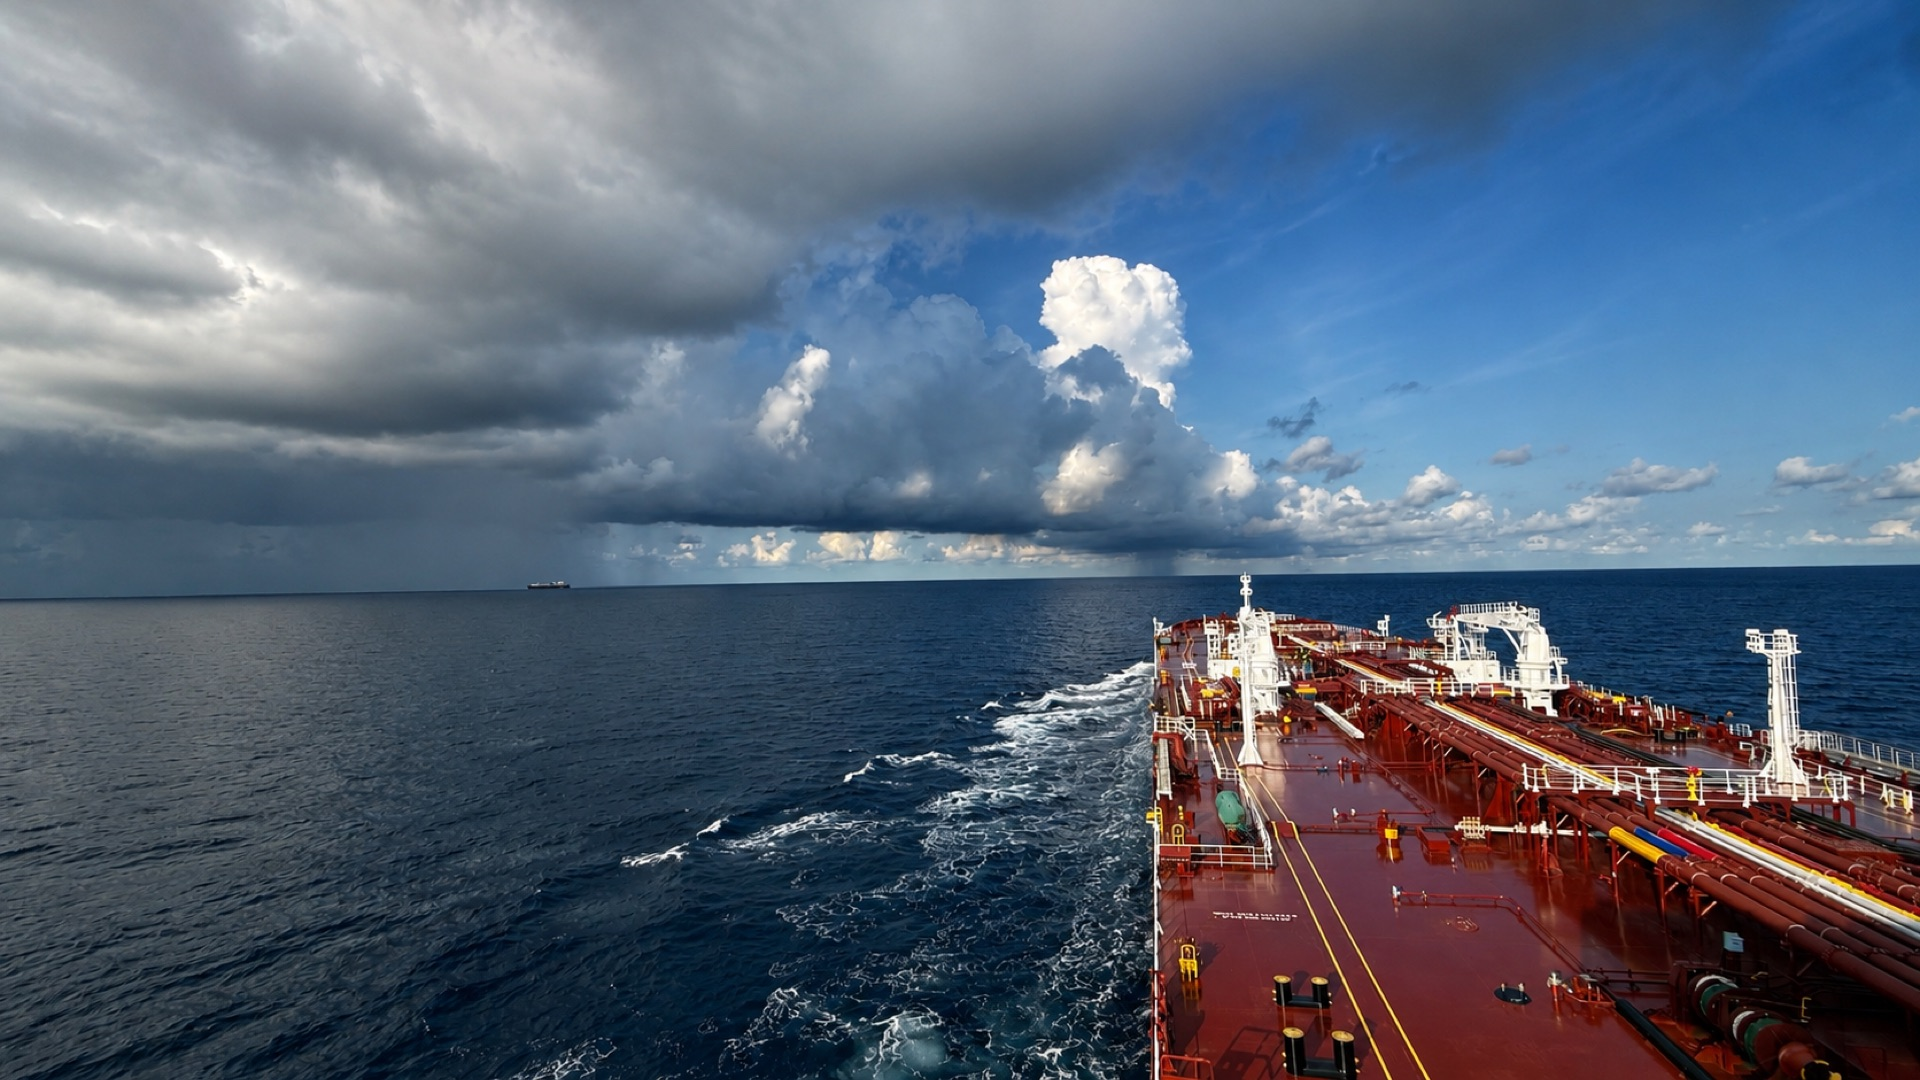
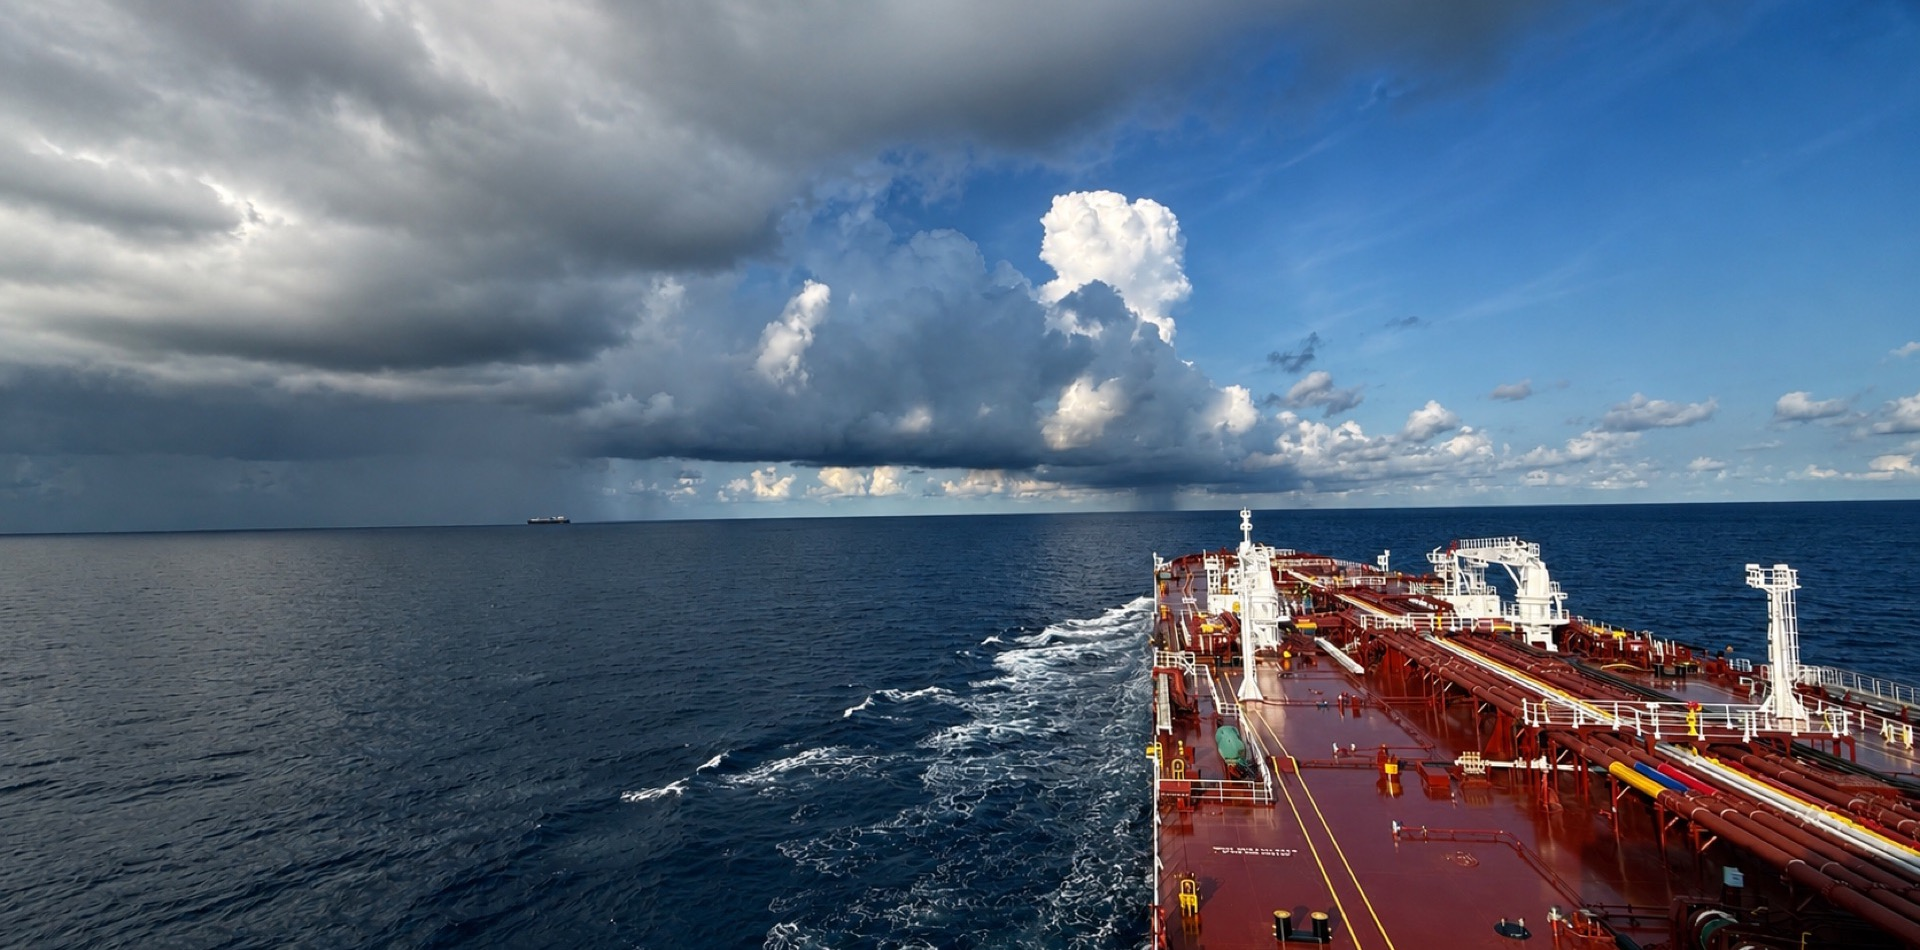
Optimize images and remove watermarks

diff --git a/index.html b/index.html
@@ -1547,17 +1547,20 @@
       background: rgba(3, 5, 8, 0.96);
       backdrop-filter: blur(24px);
       -webkit-backdrop-filter: blur(24px);
-      display: none;
+      display: flex;
       align-items: center;
       justify-content: center;
       padding: 40px;
       opacity: 0;
-      transition: opacity 0.3s ease;
+      visibility: hidden;
+      pointer-events: none;
+      transition: opacity 0.3s ease, visibility 0.3s ease;
     }
 
     .lightbox-curtain.active {
-      display: flex;
       opacity: 1;
+      visibility: visible;
+      pointer-events: auto;
     }
 
     .lightbox-stage {
@@ -1848,7 +1851,7 @@
           <!-- Hero Portrait in Architectural Frame (Preserved exactly in its own card) -->
           <div class="hero-portrait-stage reveal delay-2">
             <div class="portrait-frame">
-              <img src="photos/91bd6945-d18d-42fb-bad8-4787d4221a9a.JPG" alt="Angad Sharma — Chief Officer & Photographer" class="portrait-img" loading="eager">
+              <img src="photos/optimized/portrait.jpg" alt="Angad Sharma — Chief Officer & Photographer" class="portrait-img" loading="eager">
               <div class="portrait-meta">
                 <span class="portrait-meta-name">Angad Sharma</span>
                 <span class="portrait-meta-sub">First Mate (FG)</span>
@@ -1941,10 +1944,10 @@
         <!-- Featured Exhibition: INTERTANKO 2023 1st & 2nd Place Winners -->
         <div class="exhibition-duo">
           <!-- 1st Place Overall: Beam of Sunrays -->
-          <div class="exhibition-frame reveal delay-1" onclick="openGalleryLightbox('photos/IMG_3292.JPG', 'Beam of Sunrays', '1st Place (Overall Winner) — INTERTANKO Annual Tanker Event 2023 (Sponsored by Valles Steamship)')">
+          <div class="exhibition-frame reveal delay-1" onclick="openGalleryLightbox('photos/optimized/gallery/beam-of-sunrays.jpg', 'Beam of Sunrays', '1st Place (Overall Winner) — INTERTANKO Annual Tanker Event 2023 (Sponsored by Valles Steamship)')">
             <div class="exhibition-img-box">
               <div class="plaque-badge plaque-gold">🥇 1st Place Overall Winner</div>
-              <img src="photos/IMG_3292.JPG" alt="Beam of Sunrays — 1st Place INTERTANKO 2023" loading="lazy">
+              <img src="photos/optimized/gallery/beam-of-sunrays.jpg" alt="Beam of Sunrays — 1st Place INTERTANKO 2023" loading="lazy">
             </div>
             <div class="exhibition-caption">
               <h3 class="exhibition-title">Beam of Sunrays</h3>
@@ -1956,10 +1959,10 @@
           </div>
 
           <!-- 2nd Place: Sunrise -->
-          <div class="exhibition-frame reveal delay-2" onclick="openGalleryLightbox('photos/IMG_2713.JPG', 'Sunrise', '2nd Place Winner — INTERTANKO Annual Tanker Event 2023 (Chief Officer aboard MT Atherina, Suntech Ship Management)')">
+          <div class="exhibition-frame reveal delay-2" onclick="openGalleryLightbox('photos/optimized/gallery/sunrise.jpg', 'Sunrise', '2nd Place Winner — INTERTANKO Annual Tanker Event 2023 (Chief Officer aboard MT Atherina, Suntech Ship Management)')">
             <div class="exhibition-img-box">
               <div class="plaque-badge plaque-silver">🥈 2nd Place Winner</div>
-              <img src="photos/IMG_2713.JPG" alt="Sunrise — 2nd Place INTERTANKO 2023" loading="lazy">
+              <img src="photos/optimized/gallery/sunrise.jpg" alt="Sunrise — 2nd Place INTERTANKO 2023" loading="lazy">
             </div>
             <div class="exhibition-caption">
               <h3 class="exhibition-title">Sunrise</h3>
@@ -1979,8 +1982,8 @@
 
         <div class="gallery-masonry">
           <!-- Lightning in Gulf of Mexico (Wide 7-cols) -->
-          <div class="gallery-item col-span-7 reveal delay-1" onclick="openGalleryLightbox('photos/Lightning in Gulf Of Mexico.JPEG', 'Lightning in the Gulf of Mexico', 'Fierce atmospheric electrical discharges illuminating the open waters ahead of the tanker bow')">
-            <img src="photos/Lightning in Gulf Of Mexico.JPEG" alt="Lightning in the Gulf of Mexico" loading="lazy">
+          <div class="gallery-item col-span-7 reveal delay-1" onclick="openGalleryLightbox('photos/optimized/gallery/lightning-gulf-of-mexico.jpg', 'Lightning in the Gulf of Mexico', 'Fierce atmospheric electrical discharges illuminating the open waters ahead of the tanker bow')">
+            <img src="photos/optimized/gallery/lightning-gulf-of-mexico.jpg" alt="Lightning in the Gulf of Mexico" loading="lazy">
             <div class="gallery-item-plate">
               <div class="gallery-item-title">Lightning in the Gulf of Mexico</div>
               <div class="gallery-item-subtitle">Severe Marine Weather Systems</div>
@@ -1988,26 +1991,26 @@
           </div>
 
           <!-- Waterspout at Sea (5-cols) -->
-          <div class="gallery-item col-span-5 reveal delay-2" onclick="openGalleryLightbox('photos/IMG_9939.JPG', 'Waterspout at Sea', 'A towering atmospheric vortex bridging ocean and cumulus cloud base during deep sea transit')">
-            <img src="photos/IMG_9939.JPG" alt="Waterspout at Sea" loading="lazy">
+          <div class="gallery-item col-span-5 reveal delay-2" onclick="openGalleryLightbox('photos/optimized/gallery/waterspout-at-sea.jpg', 'Waterspout at Sea', 'A towering atmospheric vortex bridging ocean and cumulus cloud base during deep sea transit')">
+            <img src="photos/optimized/gallery/waterspout-at-sea.jpg" alt="Waterspout at Sea" loading="lazy">
             <div class="gallery-item-plate">
               <div class="gallery-item-title">Waterspout at Sea</div>
               <div class="gallery-item-subtitle">Oceanic Vortex Phenomena</div>
             </div>
           </div>
 
-          <!-- Milky Way over Bridge Wing (4-cols) -->
-          <div class="gallery-item col-span-4 reveal delay-1" onclick="openGalleryLightbox('photos/IMG_6418.JPG', 'Milky Way over Bridge Wing', 'Zero light pollution exposure capturing the galactic core over the ship superstructure')">
-            <img src="photos/IMG_6418.JPG" alt="Milky Way over Vessel Superstructure" loading="lazy">
+          <!-- Deep Sea Night Sky (4-cols) -->
+          <div class="gallery-item col-span-4 reveal delay-1" onclick="openGalleryLightbox('photos/optimized/gallery/ocean-night-sky.jpg', 'Deep Sea Night Sky', 'Open ocean passage under the vast night sky far from coastal light pollution')">
+            <img src="photos/optimized/gallery/ocean-night-sky.jpg" alt="Deep Sea Night Sky" loading="lazy">
             <div class="gallery-item-plate">
-              <div class="gallery-item-title">Milky Way over Bridge Wing</div>
-              <div class="gallery-item-subtitle">Deep Night Ocean Astrophotography</div>
+              <div class="gallery-item-title">Deep Sea Night Sky</div>
+              <div class="gallery-item-subtitle">Night Navigation</div>
             </div>
           </div>
 
           <!-- Sub-Zero Winter Deck Operations (8-cols) -->
-          <div class="gallery-item col-span-8 reveal delay-2" onclick="openGalleryLightbox('photos/IMG_20200106_101438-01.jpeg', 'Sub-Zero Operations', 'Heavy coastal snowfall blanketing tanker deck piping, valves, and manifold lines during terminal loading')">
-            <img src="photos/IMG_20200106_101438-01.jpeg" alt="Sub-Zero Winter Deck Operations" loading="lazy">
+          <div class="gallery-item col-span-8 reveal delay-2" onclick="openGalleryLightbox('photos/optimized/gallery/sub-zero-operations.jpg', 'Sub-Zero Operations', 'Heavy coastal snowfall blanketing tanker deck piping, valves, and manifold lines during terminal loading')">
+            <img src="photos/optimized/gallery/sub-zero-operations.jpg" alt="Sub-Zero Winter Deck Operations" loading="lazy">
             <div class="gallery-item-plate">
               <div class="gallery-item-title">Sub-Zero Winter Operations</div>
               <div class="gallery-item-subtitle">Arctic Terminal Manifold Operations</div>
@@ -2015,8 +2018,8 @@
           </div>
 
           <!-- Moored at Gellibrand Pier, Melbourne (6-cols) -->
-          <div class="gallery-item col-span-6 reveal delay-1" onclick="openGalleryLightbox('photos/Tanker Moored at Gellibrand Pier, Melbourne.jpeg', 'Moored at Gellibrand Pier, Melbourne', 'Early morning still waters reflecting the laden hull at Gellibrand Pier terminal')">
-            <img src="photos/Tanker Moored at Gellibrand Pier, Melbourne.jpeg" alt="Tanker Moored at Gellibrand Pier, Melbourne" loading="lazy">
+          <div class="gallery-item col-span-6 reveal delay-1" onclick="openGalleryLightbox('photos/optimized/gallery/gellibrand-pier-melbourne.jpg', 'Moored at Gellibrand Pier, Melbourne', 'Early morning still waters reflecting the laden hull at Gellibrand Pier terminal')">
+            <img src="photos/optimized/gallery/gellibrand-pier-melbourne.jpg" alt="Tanker Moored at Gellibrand Pier, Melbourne" loading="lazy">
             <div class="gallery-item-plate">
               <div class="gallery-item-title">Moored at Gellibrand Pier</div>
               <div class="gallery-item-subtitle">Melbourne Harbor Terminal Transit</div>
@@ -2024,8 +2027,8 @@
           </div>
 
           <!-- Navigator Under Starlight (6-cols) -->
-          <div class="gallery-item col-span-6 reveal delay-2" onclick="openGalleryLightbox('photos/AFREED LP 1.jpg', 'Navigator Under Starlight', 'Long exposure light-painting on deck framing a watchkeeper under infinite ocean stars')">
-            <img src="photos/AFREED LP 1.jpg" alt="Navigator Under Starlight" loading="lazy">
+          <div class="gallery-item col-span-6 reveal delay-2" onclick="openGalleryLightbox('photos/optimized/gallery/navigator-under-starlight.jpg', 'Navigator Under Starlight', 'Long exposure light-painting on deck framing a watchkeeper under infinite ocean stars')">
+            <img src="photos/optimized/gallery/navigator-under-starlight.jpg" alt="Navigator Under Starlight" loading="lazy">
             <div class="gallery-item-plate">
               <div class="gallery-item-title">Navigator Under Starlight</div>
               <div class="gallery-item-subtitle">Deck Watchkeeper Long Exposure</div>
@@ -2033,8 +2036,8 @@
           </div>
 
           <!-- Fire Drill Preparedness (4-cols) -->
-          <div class="gallery-item col-span-4 reveal delay-1" onclick="openGalleryLightbox('photos/DSC_0225-01.jpeg', 'Preparedness: High-Pressure Boundary Cooling', 'Deck crew deploying high-pressure seawater hoses during mandatory tanker emergency response drill')">
-            <img src="photos/DSC_0225-01.jpeg" alt="Fire Drill Preparedness" loading="lazy">
+          <div class="gallery-item col-span-4 reveal delay-1" onclick="openGalleryLightbox('photos/optimized/gallery/emergency-readiness.jpg', 'Preparedness: High-Pressure Boundary Cooling', 'Deck crew deploying high-pressure seawater hoses during mandatory tanker emergency response drill')">
+            <img src="photos/optimized/gallery/emergency-readiness.jpg" alt="Fire Drill Preparedness" loading="lazy">
             <div class="gallery-item-plate">
               <div class="gallery-item-title">Emergency Readiness</div>
               <div class="gallery-item-subtitle">Boundary Cooling Safety Drills</div>
@@ -2042,8 +2045,8 @@
           </div>
 
           <!-- Urban Geometry Frankfurt (4-cols) -->
-          <div class="gallery-item col-span-4 reveal delay-2" onclick="openGalleryLightbox('photos/Frankfurt 2.jpg', 'Urban Perspectives — Frankfurt', 'Architectural geometry and twilight reflections during European transit')">
-            <img src="photos/Frankfurt 2.jpg" alt="Frankfurt Urban Perspectives" loading="lazy">
+          <div class="gallery-item col-span-4 reveal delay-2" onclick="openGalleryLightbox('photos/optimized/gallery/frankfurt-urban-geometry.jpg', 'Urban Perspectives — Frankfurt', 'Architectural geometry and twilight reflections during European transit')">
+            <img src="photos/optimized/gallery/frankfurt-urban-geometry.jpg" alt="Frankfurt Urban Perspectives" loading="lazy">
             <div class="gallery-item-plate">
               <div class="gallery-item-title">Urban Geometry</div>
               <div class="gallery-item-subtitle">Frankfurt Architectural Studies</div>
@@ -2051,8 +2054,8 @@
           </div>
 
           <!-- Transpacific Twilight (4-cols) -->
-          <div class="gallery-item col-span-4 reveal delay-3" onclick="openGalleryLightbox('photos/DSC_0027-01-01.jpeg', 'Transpacific Twilight', 'The tranquil transition from golden hour into deep night in the open Pacific Ocean')">
-            <img src="photos/DSC_0027-01-01.jpeg" alt="Transpacific Twilight Horizon" loading="lazy">
+          <div class="gallery-item col-span-4 reveal delay-3" onclick="openGalleryLightbox('photos/optimized/gallery/transpacific-twilight.jpg', 'Transpacific Twilight', 'The tranquil transition from golden hour into deep night in the open Pacific Ocean')">
+            <img src="photos/optimized/gallery/transpacific-twilight.jpg" alt="Transpacific Twilight Horizon" loading="lazy">
             <div class="gallery-item-plate">
               <div class="gallery-item-title">Transpacific Twilight</div>
               <div class="gallery-item-subtitle">Deep Sea Navigation Watch</div>
